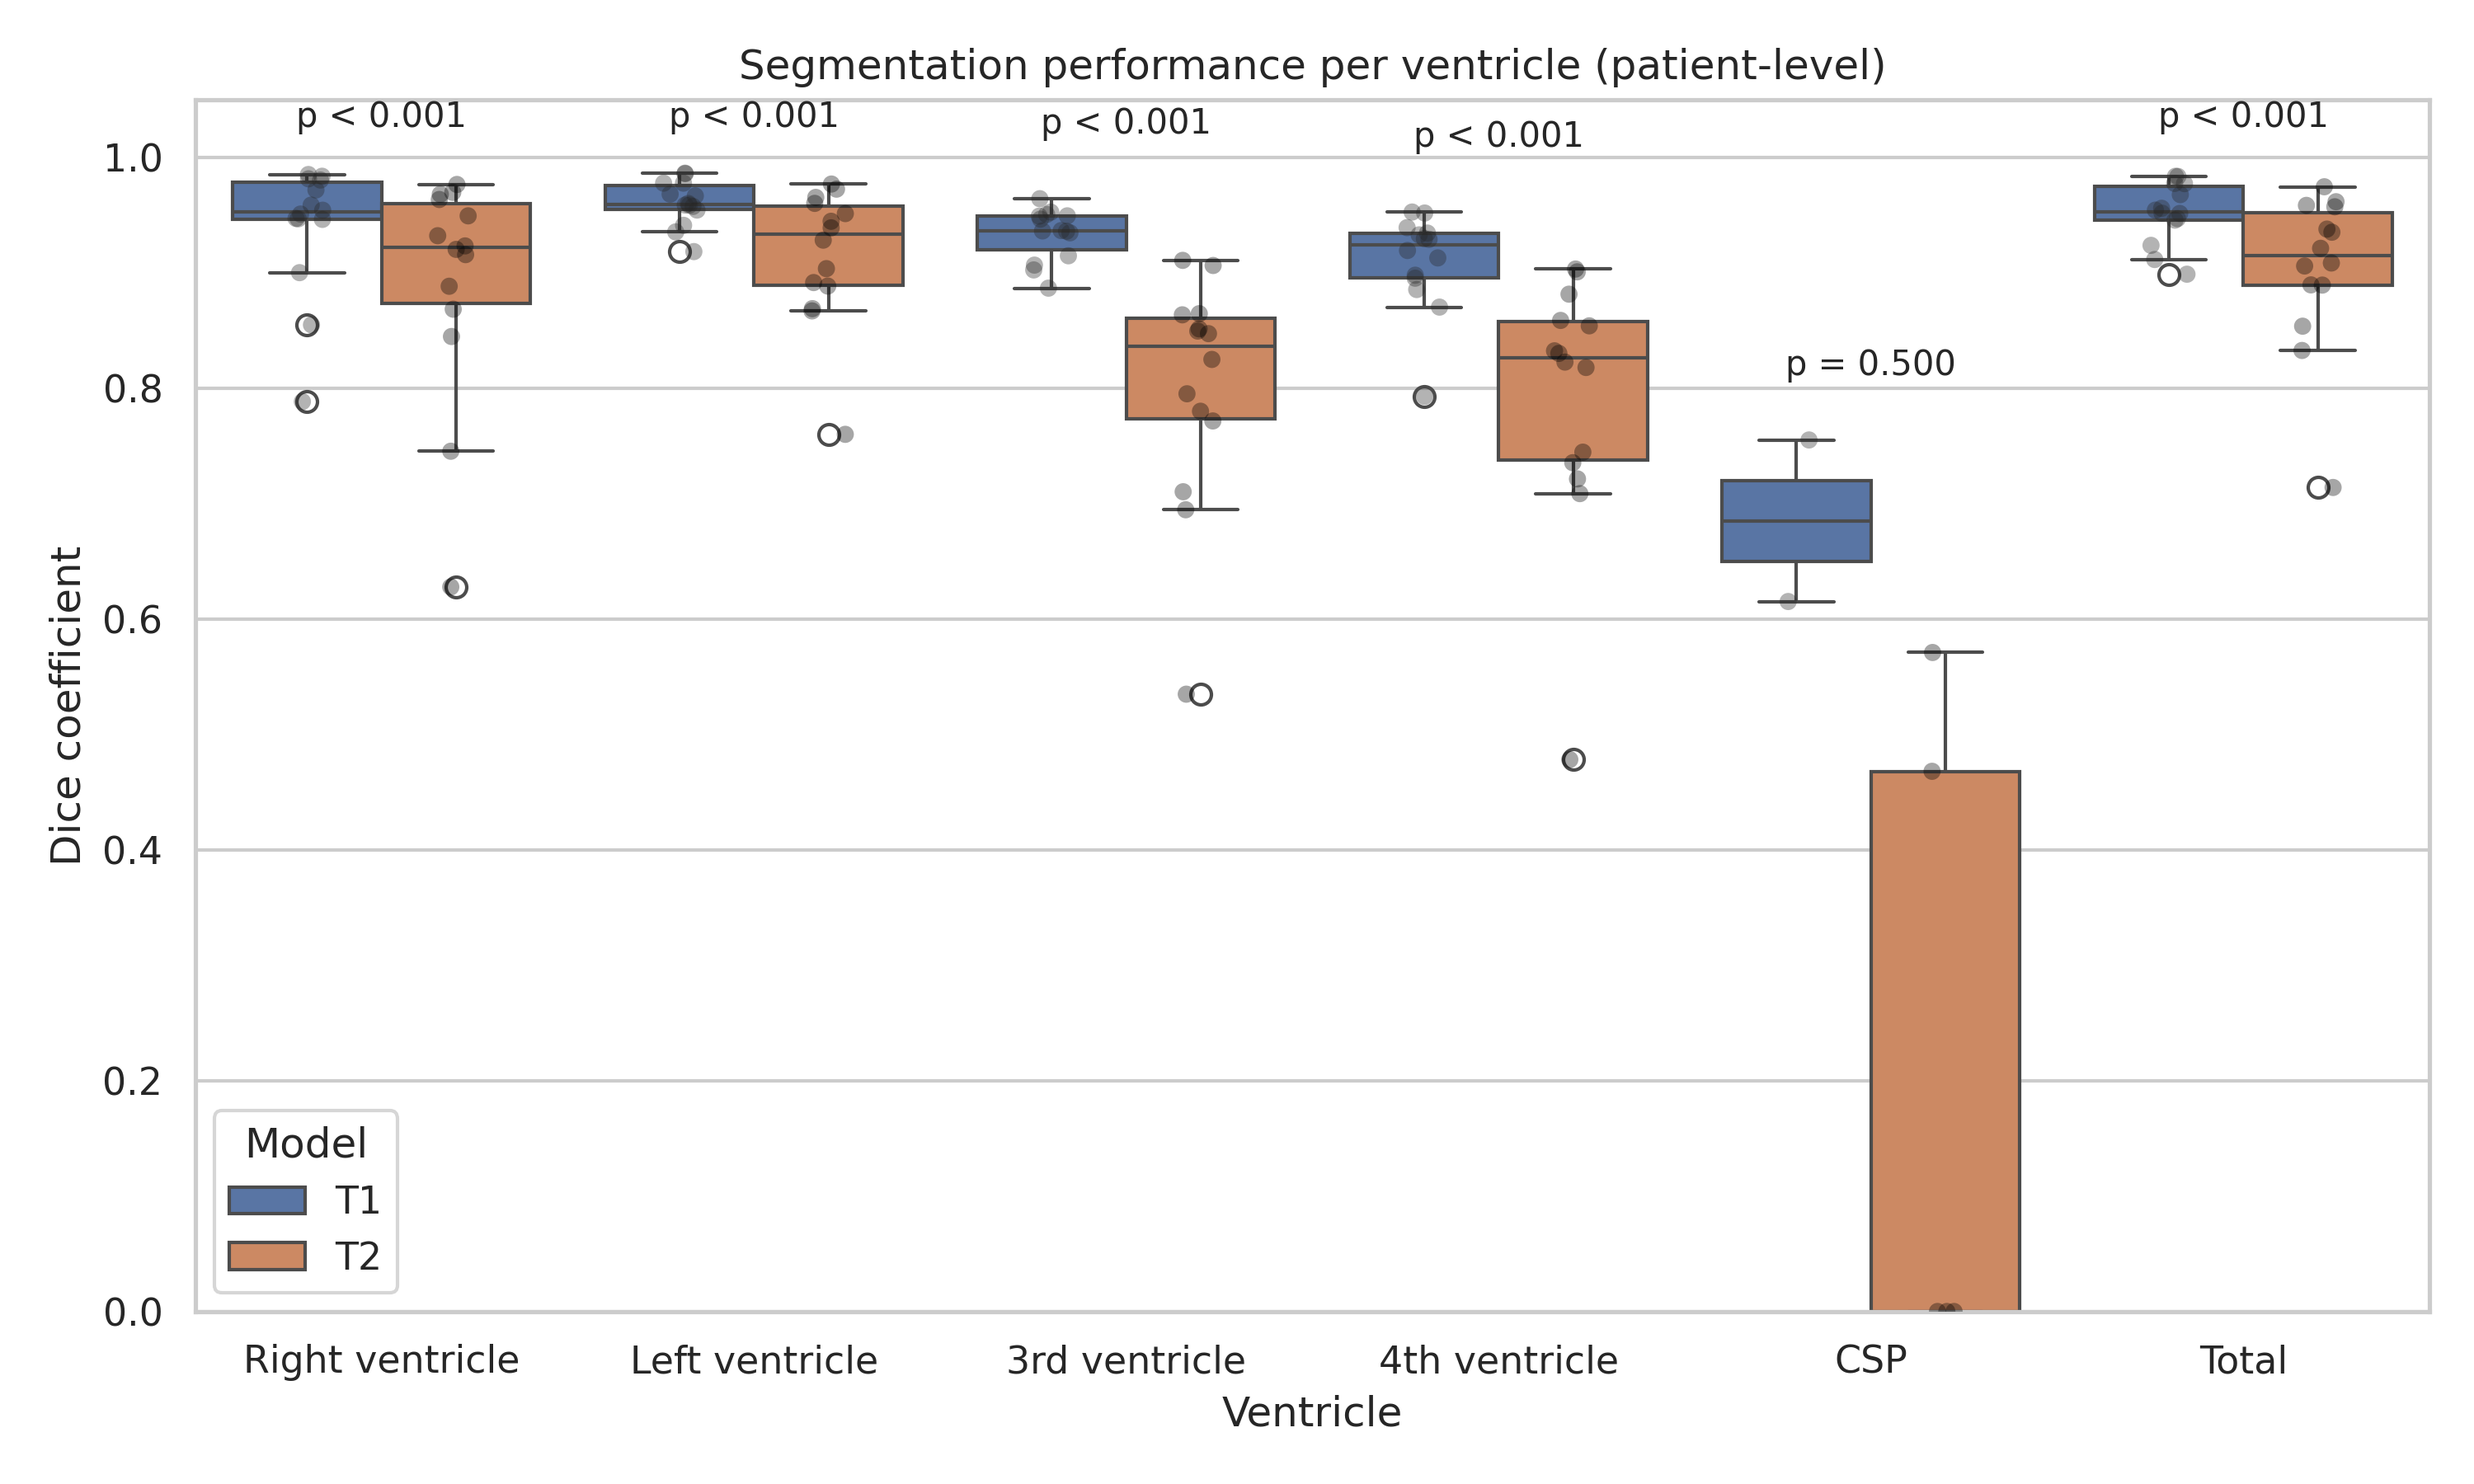
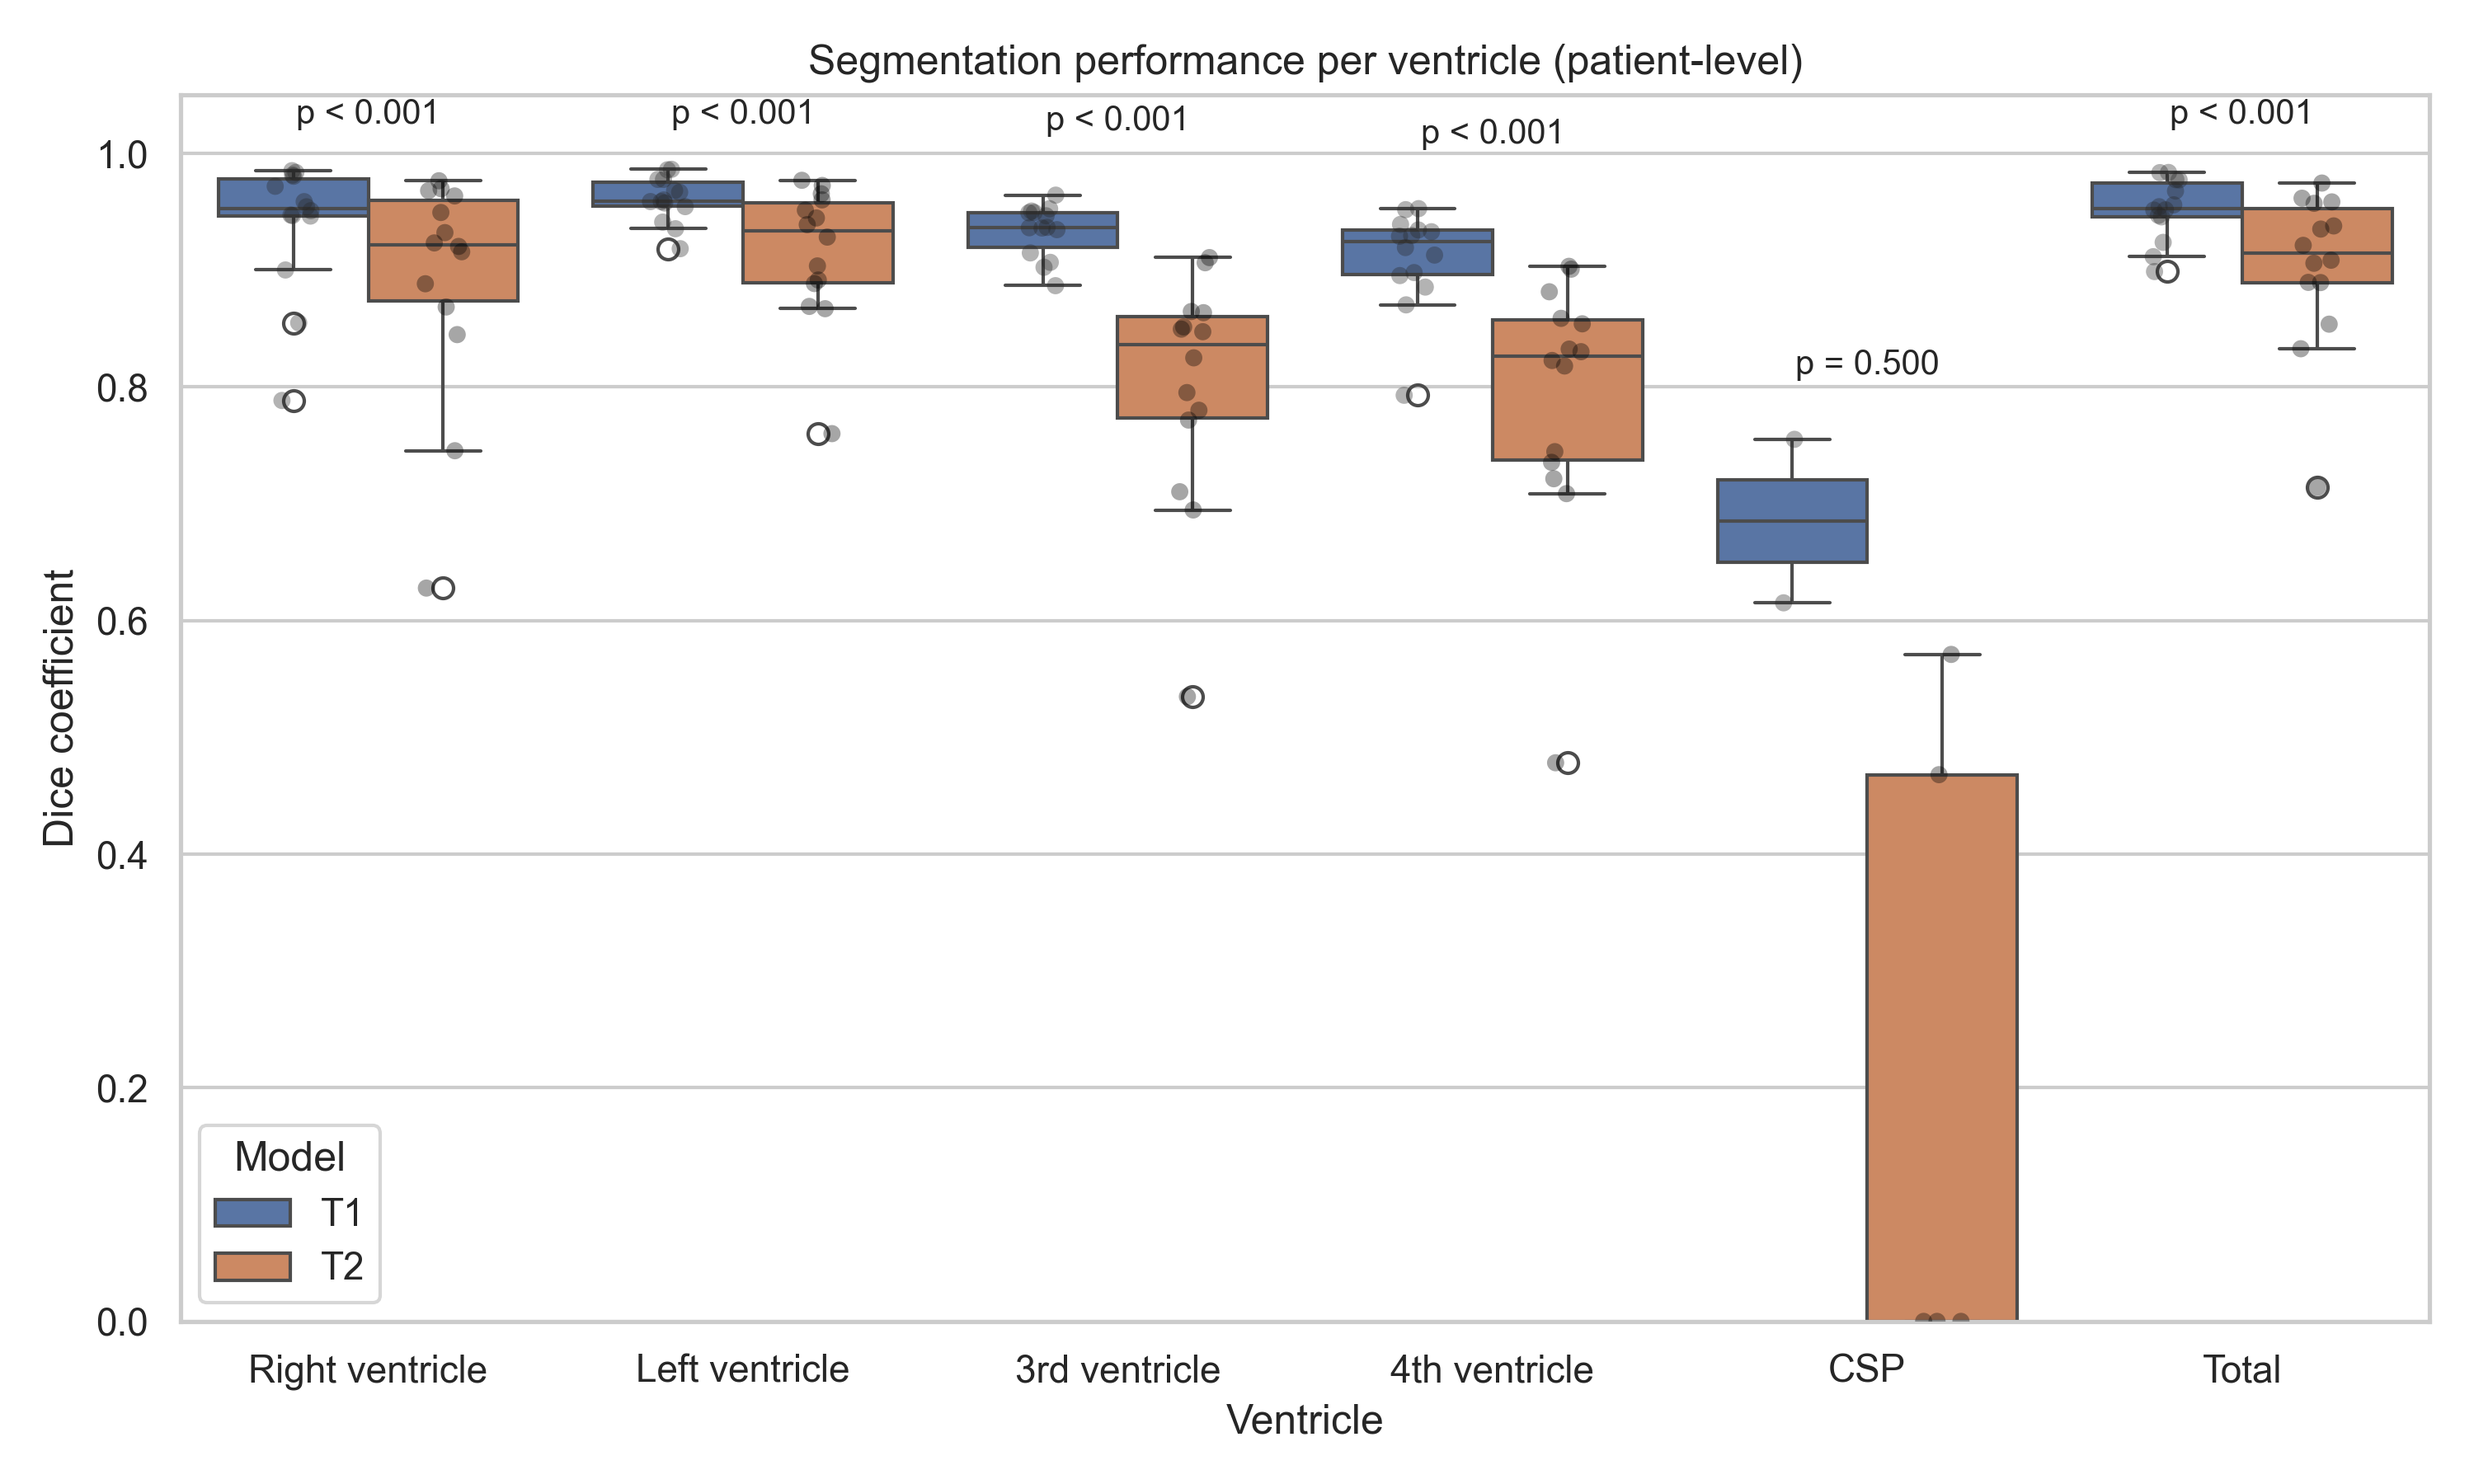
update files and plots

diff --git a/CranioVentricleSeg/Statistics&images/T1_vs_T2.py b/CranioVentricleSeg/Statistics&images/T1_vs_T2.py
@@ -1,6 +1,9 @@
-# This file does the statistical comparison of model T1 vs T2 on dice score, using Wilcoxon paired test 
+# This file does the statistical comparison of model T1 vs T2 on dice score, using Wilcoxon paired test
 # Dice scores are calculated on the test set (n=25). Patient-level aggregation is done using the median
+# Boxplot is generated automatically
 
+
+import os
 import pandas as pd
 import numpy as np
 import matplotlib.pyplot as plt
@@ -8,14 +11,40 @@ import seaborn as sns
 from scipy.stats import wilcoxon
 
 
-# Load data. Excel file generated by final_metrics_segmentation.py
-file_path = "final_segmentation_metrics_cluster_bootstrap.xlsx"
+# ----------------------- Bootstrap CI
+def bootstrap_ci_cluster(df, value_col, patient_col="patient", n_boot=1000):
+
+    patients = df[patient_col].unique()
+    medians = []
+
+    for _ in range(n_boot):
+
+        sampled_patients = np.random.choice(
+            patients,
+            size=len(patients),
+            replace=True
+        )
+
+        sampled_df = pd.concat([
+            df[df[patient_col] == p] for p in sampled_patients
+        ])
+
+        medians.append(sampled_df[value_col].median())
+
+    return (
+        np.percentile(medians, 2.5),
+        np.percentile(medians, 97.5)
+    )
+
+
+# ----------------------- Load data
+file_path = r"C:\Users\manon\iCloudDrive\Bestanden\TM Master\TM stage\TM3 EMC ventricles\TM2_ventrikels_inference-1\CranioVentricleSeg\Statistics&images\final_segmentation_metrics_cluster_bootstrap.xlsx"
 
 t1 = pd.read_excel(file_path, sheet_name="T1_v2.0_metrics")
 t2 = pd.read_excel(file_path, sheet_name="v2.0_metrics")
 
 
-# Standardize column names
+# ----------------------- Standardize column names
 t2 = t2.rename(columns={
     "case": "case",
     "dice_RV": "RV",
@@ -43,35 +72,45 @@ t1 = t1[cols]
 t2 = t2[cols]
 
 
-# Create patient ID
+# ----------------------- Keep only real cases
+t1 = t1[t1["case"].str.match(r"^(C|M)_\d+", na=False)]
+t2 = t2[t2["case"].str.match(r"^(C|M)_\d+", na=False)]
+
+
+# ----------------------- Create patient ID
 t1["patient"] = t1["case"].str.extract(r"(C_\d+|M_\d+)")
 t2["patient"] = t2["case"].str.extract(r"(C_\d+|M_\d+)")
 
-# Debug: number of scans and patients before aggregation
+
+# ----------------------- Debug
 print("\nBefore aggregation:")
 print("T1 scans:", len(t1), "| unique patients:", t1["patient"].nunique())
 print("T2 scans:", len(t2), "| unique patients:", t2["patient"].nunique())
 
 
-# Aggregate per patient using median
+# ----------------------- Aggregate per patient using median
 t1_patient = t1.groupby("patient").median(numeric_only=True).reset_index()
 t2_patient = t2.groupby("patient").median(numeric_only=True).reset_index()
 
 
-# Debug: after aggregation
 print("\nAfter aggregation (patient-level):")
 print("T1 patients:", len(t1_patient))
 print("T2 patients:", len(t2_patient))
 
-# Keep only overlapping patients
-merged = pd.merge(t1_patient, t2_patient, on="patient", suffixes=("_T1", "_T2"))
+
+# ----------------------- Keep overlapping patients
+merged = pd.merge(
+    t1_patient,
+    t2_patient,
+    on="patient",
+    suffixes=("_T1", "_T2")
+)
 
 print("\nAfter merge (overlapping patients):")
 print("Number of patients used in analysis:", len(merged))
 
-#25 patients 
 
-# Statistical comparison
+# ----------------------- Statistical comparison
 structures = ["RV", "LV", "3V", "4V", "CSP", "TOTAL"]
 
 results = []
@@ -79,38 +118,57 @@ p_values = {}
 
 for s in structures:
 
-    # Analyse per label
     x = merged[f"{s}_T1"]
     y = merged[f"{s}_T2"]
 
-    # Use only paired data --> if CSP is in only 1 case, the value is dropped
-    # Only cases in which both the models segmented CSP are kept 
     mask = ~(x.isna() | y.isna())
-
-    n_before = len(x)
-    n_after = mask.sum()
-
-    print(f"\n{s}:")
-    print(f"  Patients before filtering: {n_before}")
-    print(f"  Patients after filtering (paired, non-NaN): {n_after}")
-    print(f"  Dropped: {n_before - n_after}")       #For CSP 
-
 
     x = x[mask]
     y = y[mask]
 
-    #Wilcoxon paired test 
+    patients_used = merged.loc[mask, "patient"]
+
+    temp_t1 = pd.DataFrame({
+        "patient": patients_used,
+        "value": x
+    })
+
+    temp_t2 = pd.DataFrame({
+        "patient": patients_used,
+        "value": y
+    })
+
     if len(x) > 0:
         stat, p = wilcoxon(x, y, zero_method="wilcox")
     else:
         p = np.nan
-    
+
+    # Bootstrap CI
+    t1_ci_low, t1_ci_high = bootstrap_ci_cluster(
+        temp_t1,
+        value_col="value"
+    )
+
+    t2_ci_low, t2_ci_high = bootstrap_ci_cluster(
+        temp_t2,
+        value_col="value"
+    )
+
     results.append({
+
         "Ventricle": s,
+
         "Median T1": np.median(x),
+        "T1 CI low": t1_ci_low,
+        "T1 CI high": t1_ci_high,
+
         "Median T2": np.median(y),
+        "T2 CI low": t2_ci_low,
+        "T2 CI high": t2_ci_high,
+
         "p-value": p
     })
+
     p_values[s] = p
 
 
@@ -119,16 +177,26 @@ df_results = pd.DataFrame(results)
 print("\nStatistical results:")
 print(df_results)
 
-# Format p-values
+
+# ----------------------- Save Excel
+output_path = r"C:\Users\manon\iCloudDrive\Bestanden\TM Master\TM stage\TM3 EMC ventricles\TM2_ventrikels_inference-1\CranioVentricleSeg\Statistics&images\paired_statistics_T1vsT2.xlsx"
+
+df_results.to_excel(output_path, index=False)
+
+print(f"\nExcel saved to:\n{output_path}")
+
+
+# ----------------------- Format p-values
 def format_p(p):
     if np.isnan(p):
         return "n/a"
     elif p < 0.001:
         return "p < 0.001"
     else:
-        return f"p = {p:.3f}"   
+        return f"p = {p:.3f}"
 
-# Prepare data for plotting
+
+# ----------------------- Prepare plot data
 plot_data = []
 
 name_map = {
@@ -144,11 +212,13 @@ order = ["RV", "LV", "3V", "4V", "CSP", "TOTAL"]
 
 for s in order:
     for i in range(len(merged)):
+
         plot_data.append({
             "Dice": merged[f"{s}_T1"].iloc[i],
             "Model": "T1",
             "Ventricle": name_map[s]
         })
+
         plot_data.append({
             "Dice": merged[f"{s}_T2"].iloc[i],
             "Model": "T2",
@@ -159,10 +229,9 @@ df_plot = pd.DataFrame(plot_data)
 df_plot = df_plot.dropna()
 
 
-# Boxplot
+# ----------------------- Boxplot
 plt.figure(figsize=(10,6))
 sns.set(style="whitegrid")
-
 
 sns.boxplot(
     data=df_plot,
@@ -182,7 +251,6 @@ sns.stripplot(
     color="black"
 )
 
-# Add p-values above plots
 ax = plt.gca()
 
 for i, s in enumerate(order):
@@ -203,7 +271,6 @@ for i, s in enumerate(order):
         fontsize=10
     )
 
-    
 handles, labels = plt.gca().get_legend_handles_labels()
 plt.legend(handles[:2], labels[:2], title="Model")
 
@@ -212,5 +279,10 @@ plt.ylim(0,1.05)
 plt.title("Segmentation performance per ventricle (patient-level)")
 
 plt.tight_layout()
-plt.savefig("boxplot_T1vsT2.png", dpi=300)
+
+plt.savefig(
+    r"C:\Users\manon\iCloudDrive\Bestanden\TM Master\TM stage\TM3 EMC ventricles\TM2_ventrikels_inference-1\CranioVentricleSeg\Statistics&images\boxplot_T1vsT2.png",
+    dpi=300
+)
+
 plt.show()

diff --git a/CranioVentricleSeg/Statistics&images/plot_dsc_nsd.py b/CranioVentricleSeg/Statistics&images/plot_dsc_nsd.py
@@ -1,5 +1,6 @@
-#This file generates a boxplot of the DSC and NSD scores
+# Generate boxplot-style figure for DSC and NSD (T2 v2.0)
 # DSC and NSD is filled in manually (generated by final_metrics_segmentation.py)
+
 
 import matplotlib.pyplot as plt
 import numpy as np
@@ -25,38 +26,89 @@ nsd_q3  = [1.00, 1.00, 0.99, 0.99, 0.72, 0.99]
 
 x = np.arange(len(structures))
 
-fig, axes = plt.subplots(1, 2, figsize=(11, 4))
+# Style similar to example figure
+plt.style.use("ggplot")
+
+fig, axes = plt.subplots(1, 2, figsize=(16, 6))
 
 def draw_box(ax, med, q1, q3, title):
+
+    box_color = "#4C72B0"
+
     for i in range(len(structures)):
-        color = 'lightgray' if i == 4 else 'black'  # CSP grijs
-        
-        # box (IQR)
+
+        # Box
         ax.add_patch(plt.Rectangle(
-            (i - 0.2, q1[i]),
-            0.4,
+            (i - 0.28, q1[i]),
+            0.56,
             q3[i] - q1[i],
-            edgecolor=color,
-            facecolor='none',
-            linewidth=1.5
+            facecolor=box_color,
+            edgecolor="black",
+            alpha=0.75,
+            linewidth=1.0
         ))
-        
-        # median lijn
-        ax.plot([i - 0.2, i + 0.2], [med[i], med[i]], color=color, linewidth=2)
+
+        # Median line
+        ax.plot(
+            [i - 0.28, i + 0.28],
+            [med[i], med[i]],
+            color="black",
+            linewidth=2
+        )
+
+        # Whiskers
+        ax.plot([i, i], [q3[i], min(1.0, q3[i] + 0.03)],
+                color="black", linewidth=1)
+
+        ax.plot([i, i], [max(0.0, q1[i] - 0.03), q1[i]],
+                color="black", linewidth=1)
+
+        # Whisker caps
+        ax.plot([i - 0.10, i + 0.10],
+                [min(1.0, q3[i] + 0.03)] * 2,
+                color="black", linewidth=1)
+
+        ax.plot([i - 0.10, i + 0.10],
+                [max(0.0, q1[i] - 0.03)] * 2,
+                color="black", linewidth=1)
+
+        # Median point
+        ax.scatter(i, med[i], color="black", s=18, zorder=3)
 
     ax.set_xticks(x)
-    ax.set_xticklabels(structures, rotation=45, ha='right')
+
+    ax.set_xticklabels(
+        [
+            "Right\nventricle",
+            "Left\nventricle",
+            "3rd\nventricle",
+            "4th\nventricle",
+            "CSP",
+            "Total"
+        ],
+        fontsize=11
+    )
+
     ax.set_ylim(0, 1.05)
-    ax.set_title(title)
+
     ax.set_ylabel("Score")
-    ax.spines['top'].set_visible(False)
-    ax.spines['right'].set_visible(False)
+    ax.set_title(title, fontsize=12)
+
+    ax.grid(True, axis='y', alpha=0.5)
+    ax.grid(False, axis='x')
+
+    ax.spines['top'].set_visible(True)
+    ax.spines['right'].set_visible(True)
 
 draw_box(axes[0], dsc_med, dsc_q1, dsc_q3, "DSC (T2, v2.0)")
 draw_box(axes[1], nsd_med, nsd_q1, nsd_q3, "NSD (T2, v2.0)")
 
 plt.tight_layout()
 
-plt.savefig("T2_dsc_nsd.png", dpi=300, bbox_inches='tight')
+plt.savefig(
+    "T2_dsc_nsd.png",
+    dpi=300,
+    bbox_inches='tight'
+)
 
 plt.close()
